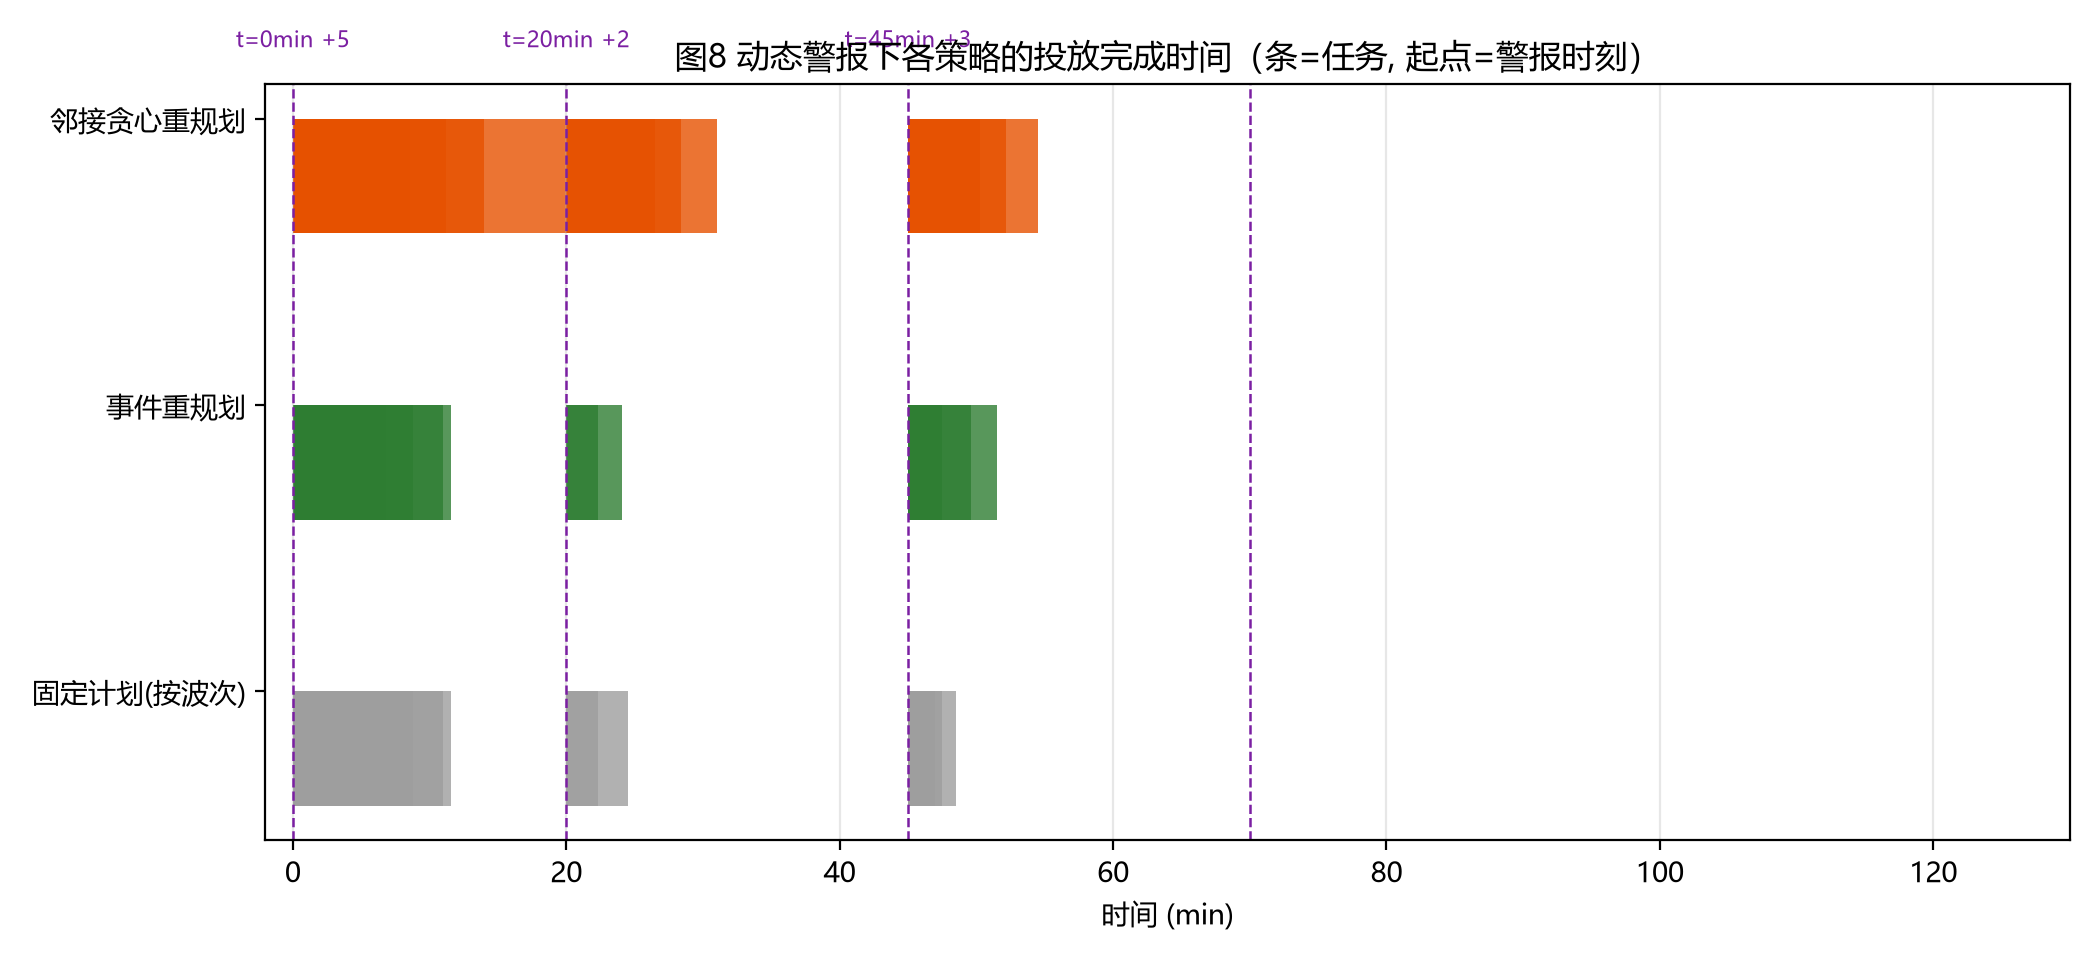
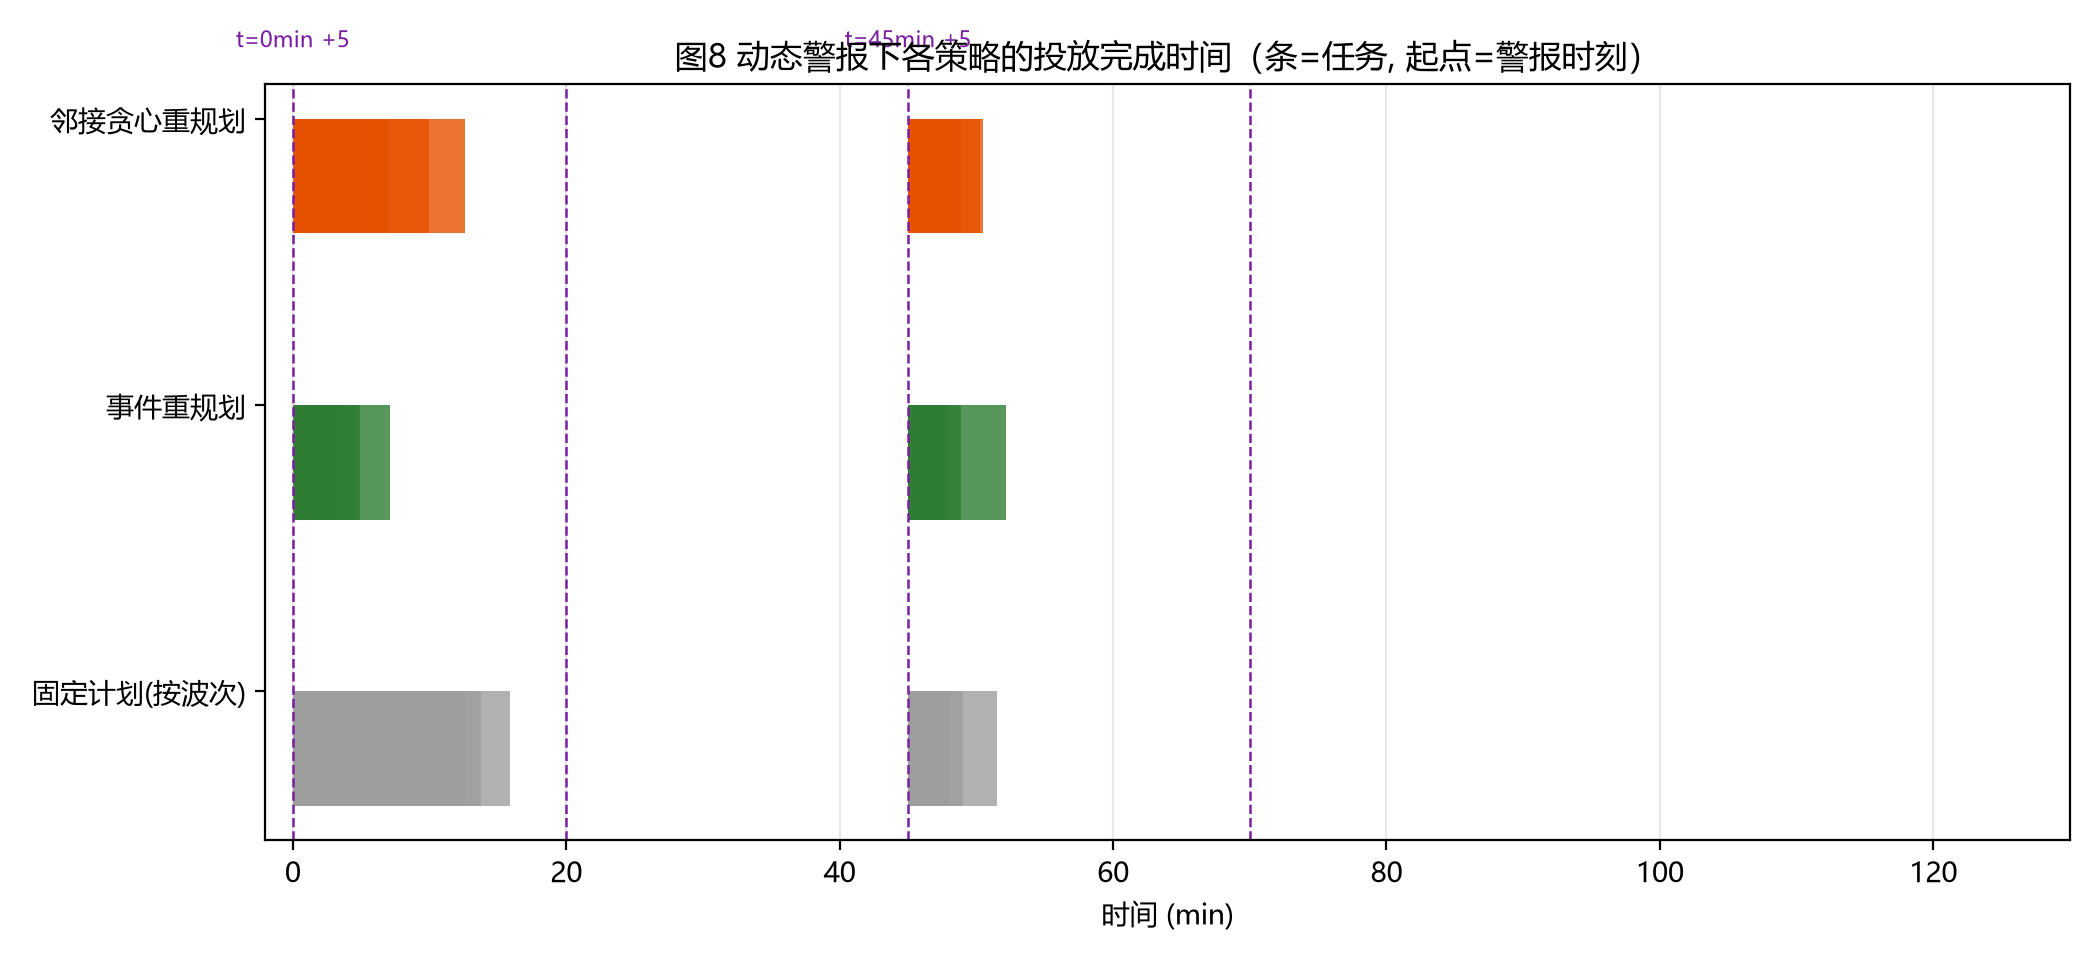
feat(pathplanning): M2/M3 物理模型落地(leg_energy 助手/求解器同口径/κ+E_res 审计) + M6 高priority演示产物

diff --git a/model_path_planning/code/env.py b/model_path_planning/code/env.py
@@ -63,6 +63,15 @@ def build_instance_from_scenario(sc):
     return inst
 
 
+
+
+def leg_energy(inst, k, t_leg, load):
+    """载荷耦合能量 (min 等效): E = T_leg · ((W + pack_kg·load)/W)^{3/2}; drone_w=None 时退化为 T_leg"""
+    if inst.drone_w is None:
+        return t_leg
+    W = float(inst.drone_w[k])
+    return t_leg * ((W + inst.pack_kg * max(float(load), 0.0)) / W) ** 1.5
+
 def objective_times(inst, routes):
     """
     给定解 routes (list[list[int]], 每架无人机访问序列, 元素为停机坪编号表示补货),
